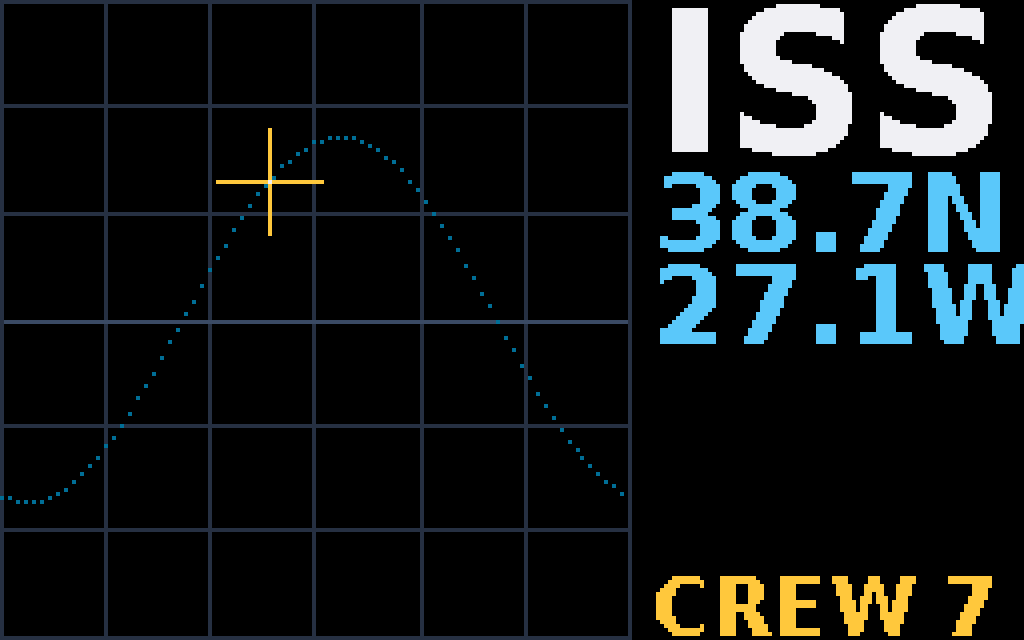
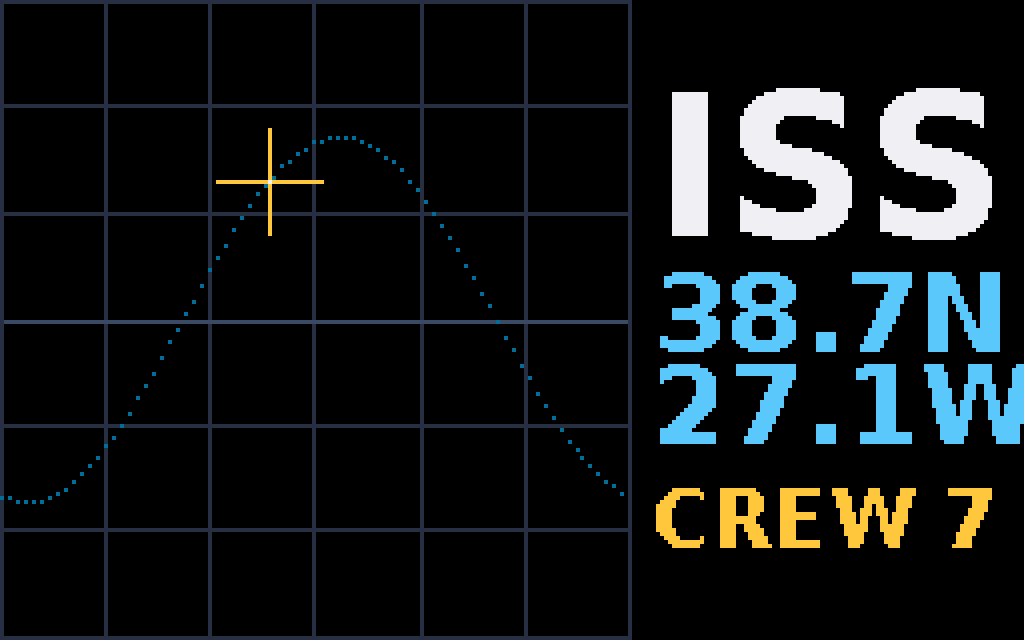
2.10.12-beta.16 — LCD: Lumina Clock & ISS render native 1280x800 (clock font-fit converges instead of clipping; ISS crew centered + map weights scale with the panel); aquarium streams on the LCD again (firmware fixed the stream+atlas crash, opt-out removed)

Changed region(s): [[0.625, 0.0, 1.0, 0.7188], [0.625, 0.75, 0.9688, 1.0]]

diff --git a/backend/app/engine.py b/backend/app/engine.py
@@ -779,12 +779,12 @@ class DisplayController:
         left running — effect, looping anim, ticker — instead of painting over the new app's frames.
 
         ``claim`` False (a DEVICE-side renderer: an effect, on-device anim or ticker): do NOT take
-        the panel over. The renderer claims the panel with its OWN POST, and a pre-emptive take_over
-        parks the panel in raw-canvas mode — which the LCD firmware does not un-park when the effect
-        then starts, so the effect renders into the framebuffer but never reaches the screen. Hand
-        the panel back to the wall instead (``release`` = the firmware's ``dispReturnToWall``): that
-        stands down any prior device renderer AND un-parks, exactly what the wall's own UI does
-        before it starts an effect."""
+        the panel over. The renderer claims the panel with its OWN POST, so grabbing raw-canvas mode
+        first is the wrong model — hand the panel back to the wall instead (``release`` = the
+        firmware's ``dispReturnToWall``), which stands down any prior device renderer and readies the
+        panel for the next effect, exactly what the wall's own UI does before it starts one. (An
+        earlier LCD firmware also REQUIRED this: a pre-emptive take_over parked the panel and would
+        not un-park for the effect — since fixed, but release remains the correct path.)"""
         url = str(self.config.transport.get("gateway_url") or "").strip()
         if url:
             # Drop any draw stream a PREVIOUS app left open before this one claims the panel.
@@ -798,11 +798,11 @@ class DisplayController:
                 if not self._canvas_active:
                     await asyncio.to_thread(canvas.take_over, url)
             else:
-                # A device renderer POSTs its own claim next (gCanvasMode stays false), so instead
-                # of taking the panel over — which parks it, and the LCD won't un-park for the
-                # effect — hand it back to the wall: release stands down any prior device renderer
-                # AND un-parks. _canvas_active still marks the panel as claimed by a canvas/device
-                # app, so the switch-away teardown (stream close + flap-cache forget) is unchanged.
+                # A device renderer POSTs its own claim next (gCanvasMode stays false), so taking the
+                # panel over is the wrong model — hand it back to the wall: release stands down any
+                # prior device renderer and readies the panel for the effect, matching the wall's own
+                # UI. _canvas_active still marks the panel as claimed by a canvas/device app, so the
+                # switch-away teardown (stream close + flap-cache forget) is unchanged.
                 await asyncio.to_thread(canvas.release, url)
             self._canvas_active = True
         return url
@@ -818,8 +818,8 @@ class DisplayController:
         low floor lets an animating app pick its own frame rate (a fast frame-push app
         runs over the draw stream, ~28 fps vs the ~8 fps HTTP ceiling)."""
         # A device-side renderer (effect / on-device anim / ticker) claims the panel with its own
-        # POST — do NOT take the panel over first: on the LCD firmware take_over parks the panel and
-        # the effect never reaches the screen (it renders only into the framebuffer). See _take_panel.
+        # POST — do NOT take the panel over first; hand it back to the wall so the renderer starts
+        # cleanly, exactly as the wall's own UI does before an effect. See _take_panel.
         device_render = bool((self.plugins.manifest(app_id) or {}).get("device_render"))
         url = await self._take_panel(claim=not device_render)
         caps = self._caps()
@@ -831,10 +831,8 @@ class DisplayController:
         # path an open stream 409s) and to offscreen-render apps (an on-device effect pushes
         # nothing per frame and must not hold a stream; an atlas upload closes/reopens the stream
         # on its own). A stream dropped mid-run is re-adopted by _maybe_stream on the next tick.
-        # Skipped for an app that opts out on the LCD (see _lcd_stream_opt_out).
         if (url and getattr(caps, "canvas_stream", False) and getattr(caps, "canvas_ops_bin", False)
-                and self.plugins.renders_offscreen(app_id)
-                and not self._lcd_stream_opt_out(app_id, caps)):
+                and self.plugins.renders_offscreen(app_id)):
             await asyncio.to_thread(canvas.stream_begin, url)
         if (self.plugins.manifest(app_id) or {}).get("interactive"):
             gameinput.reset(url)                        # fresh pad — no stale steering/presses
@@ -887,23 +885,11 @@ class DisplayController:
         per frame. The stream's 2 MB raw keyframe is handled at the source instead: it is no
         longer sent periodically over a stream (see canvas._try_delta) — TCP continuity means
         no drift to heal, so only deltas flow after the first full."""
-        if self._lcd_stream_opt_out(app_id, caps):
-            return
         if not (url and getattr(caps, "canvas_stream", False) and not canvas.has_stream(url)
                 and isinstance(hold, (int, float)) and hold <= _CANVAS_STREAM_MAX_HOLD):
             return
         if canvas.last_push_was_opsb(url) or canvas.last_push_was_frame(url):
             await asyncio.to_thread(canvas.stream_begin, url)
-
-    def _lcd_stream_opt_out(self, app_id: str, caps) -> bool:
-        """Whether this app must NOT use the draw stream on the LCD (manifest ``lcd_no_stream``).
-
-        The aquarium is the case: it re-asserts a sprite atlas every run, and the atlas REST PUT
-        must close any open stream (see canvas.put_atlas_named) — so streaming it churns the stream
-        open→closed for no gain AND the 0.1.0 LCD firmware crashes on that open→atlas→close sequence.
-        On the LCD it stays on HTTP ops. LCD-only: other walls (the Matrix Gateway) stream it fine."""
-        return bool(getattr(caps, "is_lcd", False)
-                    and (self.plugins.manifest(app_id) or {}).get("lcd_no_stream"))
 
     async def _run_channel_canvas(self, app_id: str, keep_going, *, overrides=None,
                                   deadline=None) -> None:

diff --git a/apps/iss/app.py b/apps/iss/app.py
@@ -173,41 +173,55 @@ def _cv_shadow(draw, x, y, text, font, fill):
 
 def _cv_map(draw, x0, y0, mw, mh, lat, lon):
     """The world grid, the ground track through (lat, lon), and the station marker.
-    Equirectangular: the whole earth in the box."""
+    Equirectangular: the whole earth in the box. Line and dot weights scale with the map's
+    height (``kw``) so the graticule, dotted orbit and crosshair read at the LCD's native
+    1280x800 as well as on a small LED panel — at ``kw == 1`` (any matrix panel) every stroke
+    is the original single pixel, so the LED look is byte-for-byte unchanged."""
     import math
 
     def xy(la, lo):
         return (x0 + (lo + 180.0) / 360.0 * (mw - 1),
                 y0 + (90.0 - la) / 180.0 * (mh - 1))
 
+    kw = max(1, round(mh / 160))                 # 1 on a panel, ~5 at native 800px
+    gw = max(1, kw // 2)                          # graticule / equator / border stroke
     # graticule: meridians every 60°, parallels every 30°, the equator a shade brighter
     for lo in range(-120, 180, 60):
         x = int(round(xy(0, lo)[0]))
-        draw.line([(x, y0), (x, y0 + mh - 1)], fill=_GRID)
+        draw.line([(x, y0), (x, y0 + mh - 1)], fill=_GRID, width=gw)
     for la in (-60, -30, 30, 60):
         y = int(round(xy(la, 0)[1]))
-        draw.line([(x0, y), (x0 + mw - 1, y)], fill=_GRID)
+        draw.line([(x0, y), (x0 + mw - 1, y)], fill=_GRID, width=gw)
     eq = int(round(xy(0, 0)[1]))
-    draw.line([(x0, eq), (x0 + mw - 1, eq)], fill=_EQUATOR)
-    draw.rectangle([x0, y0, x0 + mw - 1, y0 + mh - 1], outline=_GRID)
+    draw.line([(x0, eq), (x0 + mw - 1, eq)], fill=_EQUATOR, width=gw)
+    draw.rectangle([x0, y0, x0 + mw - 1, y0 + mh - 1], outline=_GRID, width=gw)
 
     # the ground track: lat = incl * sin(k), threaded through the live fix (dotted)
     k0 = math.asin(max(-1.0, min(1.0, lat / _INCL)))
-    for px in range(0, mw, 2):
+    dot, step = max(0, kw // 2), max(2, 2 * kw)  # 1px points every 2px on a panel; discs, native
+    for px in range(0, mw, step):
         dlon = (px / (mw - 1)) * 360.0 - 180.0
         k = k0 + math.radians(dlon)
         tla = _INCL * math.sin(k)
         tlo = lon + dlon
         tlo = ((tlo + 180.0) % 360.0) - 180.0
-        tx, ty = xy(tla, tlo)
-        draw.point((int(round(tx)), int(round(ty))), fill=_TRACK)
+        tx, ty = (int(round(v)) for v in xy(tla, tlo))
+        if dot:
+            draw.ellipse([tx - dot, ty - dot, tx + dot, ty + dot], fill=_TRACK)
+        else:
+            draw.point((tx, ty), fill=_TRACK)
 
-    # the station: an amber crosshair with a white heart
+    # the station: an amber crosshair (a touch heavier than the grid) with a white heart
     mx, my = (int(round(v)) for v in xy(lat, lon))
     arm = max(2, mh // 12)
-    draw.line([(mx - arm, my), (mx + arm, my)], fill=_AMBER)
-    draw.line([(mx, my - arm), (mx, my + arm)], fill=_AMBER)
-    draw.point((mx, my), fill=_WHITE)
+    cw = max(1, round(kw * 0.6))
+    draw.line([(mx - arm, my), (mx + arm, my)], fill=_AMBER, width=cw)
+    draw.line([(mx, my - arm), (mx, my + arm)], fill=_AMBER, width=cw)
+    r = max(0, kw // 2)
+    if r:
+        draw.ellipse([mx - r, my - r, mx + r, my + r], fill=_WHITE)
+    else:
+        draw.point((mx, my), fill=_WHITE)
 
 
 def fetch_canvas(settings, canvas, i18n=None):
@@ -245,21 +259,28 @@ def fetch_canvas(settings, canvas, i18n=None):
         _cv_map(draw, 0, 0, mw, mh, lat, lon)
         tx = mw + 5
         tw = W - 3 - tx
-        title = 'ISS'
-        tf = canvas.fit_font(title, tw, max(10, int(H * 0.3)))
-        tb = tf.getbbox(title)
-        draw.text((tx, 1 - tb[1]), title, font=tf, fill=_WHITE)
-        y = 1 + (tb[3] - tb[1]) + 4
-        cf = canvas.fit_font(_coord(lat, "NS", 1), tw, max(7, int(H * 0.17)))
-        for ln in (_coord(lat, "NS", 1), _coord(lon, "EW", 1)):
-            b = cf.getbbox(ln)
-            draw.text((tx, y - b[1]), ln, font=cf, fill=_CYAN)
-            y += (b[3] - b[1]) + 3
+        # Title / coordinates / crew as ONE block, centered vertically in the text column so the
+        # crew count sits WITH the coordinates instead of pinned to the panel's bottom edge — which
+        # read as "too far down" on the tall LCD. A wider gap under the title and above the crew, a
+        # tight one between the two coord lines, groups them. Coord font fits the wider of the two
+        # lines (a west longitude runs to 6 chars), so neither clips.
+        lat_s, lon_s = _coord(lat, "NS", 1), _coord(lon, "EW", 1)
+        tf = canvas.fit_font('ISS', tw, max(10, int(H * 0.30)))
+        cf = canvas.fit_font(max(lat_s, lon_s, key=len), tw, max(7, int(H * 0.17)))
+        rows = [(tf, 'ISS', _WHITE, 0),
+                (cf, lat_s, _CYAN, max(3, int(H * 0.05))),
+                (cf, lon_s, _CYAN, max(2, int(H * 0.02)))]
         if crew:
             bf = canvas.fit_font(crew, tw, max(7, int(H * 0.15)))
-            bb = bf.getbbox(crew)
-            if (bb[3] - bb[1]) >= 6:
-                draw.text((tx, H - 1 - (bb[3] - bb[1]) - bb[1]), crew, font=bf, fill=_AMBER)
+            if (bf.getbbox(crew)[3] - bf.getbbox(crew)[1]) >= 6:
+                rows.append((bf, crew, _AMBER, max(4, int(H * 0.07))))
+        hs = [f.getbbox(s)[3] - f.getbbox(s)[1] for f, s, _c, _g in rows]
+        total = sum(hs) + sum(g for _f, _s, _c, g in rows)
+        y = max(1, (H - total) // 2)                 # centered block, top of the first row
+        for (f, s, col, gap), h in zip(rows, hs):
+            y += gap
+            draw.text((tx, y - f.getbbox(s)[1]), s, font=f, fill=col)
+            y += h
     else:
         # Compact: the map fills the panel edge to edge, the coordinates ride its
         # lower edge. Degrade the caption rather than the type: full precision, then

diff --git a/backend/tests/test_canvas_stream_sprites.py b/backend/tests/test_canvas_stream_sprites.py
@@ -248,12 +248,13 @@ def test_no_eager_stream_without_binary_ops(monkeypatch, tmp_path):
         f"a JSON-ops wall must not pre-open the stream, got {events[:3]}"
 
 
-def test_aquarium_opts_out_of_the_lcd_draw_stream(tmp_path):
-    """Regression: streaming the aquarium crashed the 0.1.0 LCD firmware. It re-asserts a sprite
-    atlas every run, and the atlas REST PUT must close any open draw stream — the open->atlas->close
-    sequence panics the wall (and streaming gains it nothing there anyway). It carries manifest
-    ``lcd_no_stream``, so the engine keeps it on HTTP ops on the LCD (is_lcd) while STILL streaming
-    it on the Matrix Gateway, where it works."""
+def test_aquarium_streams_on_the_lcd(tmp_path):
+    """Streaming the aquarium once crashed the 0.1.0 LCD firmware — its per-run sprite-atlas PUT
+    must close any open draw stream, and that open->atlas->close sequence rebooted the wall, so it
+    carried manifest ``lcd_no_stream`` to stay on HTTP ops there. The firmware fixed the reboot and
+    the companion moves in lockstep with it, so the opt-out is gone: the aquarium is a plain
+    offscreen frame-push app again and eager-streams on the LCD (the fast path — HTTP is ~2.4 s per
+    frame on the 1280x800 wall). The whole opt-out mechanism was removed with it."""
     import json
     from pathlib import Path
     from app.config import Config
@@ -261,19 +262,14 @@ def test_aquarium_opts_out_of_the_lcd_draw_stream(tmp_path):
     from app.plugin_settings import PluginSettings
     from app.plugins import PluginRuntime
     from app.state import DisplayState
-    from app import device
     APPS = Path(__file__).resolve().parents[2] / "apps"
-    assert json.loads((APPS / "canvas-aquarium" / "manifest.json").read_text()).get("lcd_no_stream") is True
+    manifest = json.loads((APPS / "canvas-aquarium" / "manifest.json").read_text())
+    assert "lcd_no_stream" not in manifest                       # opt-out removed (lockstep w/ fixed fw)
     cfg = Config(data_dir=tmp_path)
     ctl = DisplayController(cfg, DisplayState(45))
+    assert not hasattr(ctl, "_lcd_stream_opt_out")              # mechanism gone, not just unused
     ps = PluginSettings(tmp_path); ps.set_installed(["canvas-aquarium"])
     rt = PluginRuntime(cfg, ps, APPS); rt.load(); ctl.attach_plugins(rt)
-    lcd = device.from_capabilities({"product": "LCD Gateway", "features": ["canvas"],
-        "surface": {"kind": "lcd", "w": 1280, "h": 800}, "charset": {"common": "A"},
-        "canvas": {"width": 1280, "height": 800, "stream": True, "opsBin": True}})
-    led = device.from_capabilities({"product": "Matrix Gateway", "features": ["canvas"],
-        "surface": {"kind": "led-matrix", "w": 256, "h": 64}, "charset": {"common": "A"},
-        "canvas": {"width": 256, "height": 64, "stream": True, "opsBin": True}})
-    assert ctl._lcd_stream_opt_out("canvas-aquarium", lcd) is True    # HTTP ops on the LCD
-    assert ctl._lcd_stream_opt_out("canvas-aquarium", led) is False   # streams on the Matrix Gateway
-    assert ctl._lcd_stream_opt_out("time", lcd) is False              # a normal app still streams
+    # renders_offscreen == eager-stream-eligible: it's what the _run_matrix stream gate checks, so
+    # the aquarium now streams on any wall that advertises canvas.stream + opsBin (LCD included).
+    assert rt.renders_offscreen("canvas-aquarium") is True

diff --git a/apps/canvas-art-clock/app.py b/apps/canvas-art-clock/app.py
@@ -59,17 +59,32 @@ def _cv_resolve(canvas, palette, hourf):
 
 
 def _cv_fit_clock(canvas, W, H):
-    """Largest bundled font whose 'HH:MM' fits the panel, plus cap metrics."""
+    """Largest bundled font whose 'HH:MM' fits the panel, plus cap metrics.
+
+    Width usually binds — five glyphs across a 16:10 panel — so converge on the fit
+    PROPORTIONALLY. The old form stepped the size down 1px at a time capped at 60
+    iterations; at the LCD's native 1280x800 the start size is ~850 and the fit is
+    ~400, so it stalled 60px in and the digits overflowed both edges by a whole panel
+    width. The jump-then-settle below reaches the same largest-fitting size at any
+    resolution (matrix panels land on the identical size they always did)."""
+    limit = W - 2
     cap = max(6, int(round(H * 0.80)))
-    size = max(8, int(round(cap / 0.75)))
+    ceiling = max(8, int(round(cap / 0.75)))     # the height-target size; never exceed it
+    size = ceiling
     font = canvas.font(size)
-    for _ in range(60):
-        if font.getlength('88:88') <= W - 2 or size <= 8:
+    for _ in range(8):                            # proportional jumps toward the width limit
+        w = font.getlength('88:88')
+        if w <= limit or size <= 8:
             break
-        size -= 1
+        size = max(8, min(size - 1, int(size * limit / max(1.0, w))))
         font = canvas.font(size)
-    l, t, r, b = font.getbbox('8')          # ink box (anchor 'la': y=0 at ascender)
-    return font, t, b - t                    # font, ink_top, cap_height
+    while size < ceiling:                         # a jump can undershoot by a px — grow back
+        nf = canvas.font(size + 1)                # to the largest size that still fits, so a
+        if nf.getlength('88:88') > limit:         # matrix panel's chosen size is unchanged
+            break
+        size, font = size + 1, nf
+    l, t, r, b = font.getbbox('8')                # ink box (anchor 'la': y=0 at ascender)
+    return font, t, b - t                         # font, ink_top, cap_height
 
 
 def _cv_fill(canvas, Image, treatment, tone, W, H, y0, y1, frame):

diff --git a/addon-beta/CHANGELOG.md b/addon-beta/CHANGELOG.md
@@ -3,6 +3,22 @@
 Home Assistant shows this when an update is available. Newest first; the version headings
 have to match the add-on's `version`, or the update notice comes up blank.
 
+## 2.10.12-beta.16
+
+- **Lumina Clock renders at the LCD's native 1280×800** (`lcd_native`) instead of on the logical
+  256×160 panel upscaled ×5 — crisp digits. It also **fits the panel again**: the font-fit loop
+  stepped the size down one pixel per iteration capped at 60 tries, which could not converge from
+  the large native start size, so the digits overflowed both edges; it now converges proportionally
+  and fits at any resolution (matrix panels land on the exact same size as before).
+- **ISS Tracker renders native on the LCD too**, and **centers its title / coordinates / crew as one
+  block** so the crew count sits with the coordinates instead of pinned to the bottom edge (it read
+  as "too far down"). Its map's grid, dotted orbit and station marker now scale with the panel, so
+  the map stays coherent at native resolution rather than thinning to hairlines. Small LED panels are
+  unchanged (weights stay 1px, the sub-112px layout is untouched).
+- **Aquarium streams on the LCD again** — the firmware fixed the draw-stream-around-atlas-upload
+  crash, so the `lcd_no_stream` opt-out (and its whole engine mechanism) is removed; it takes the
+  fast draw-stream path there like any other frame-push app.
+
 ## 2.10.12-beta.15
 
 - **Aquarium no longer crashes the LCD** — the eager draw-stream adoption (beta.12) opened a stream
